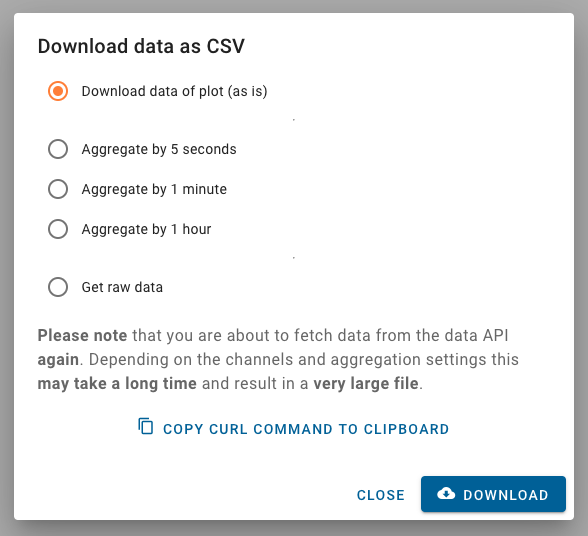
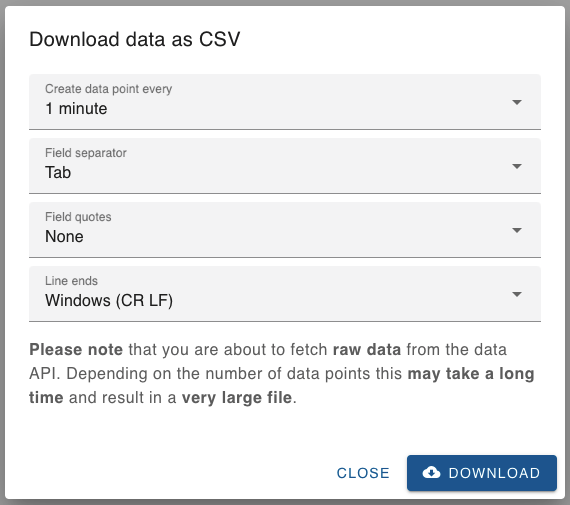
docs: document CSV download

diff --git a/docs/howtos/download_channel_data.md b/docs/howtos/download_channel_data.md
@@ -4,7 +4,7 @@ This document will guide you through the steps to download data from the data AP
 
 ## Scenario
 
-For the purpose of this guide, let's assume we want to download the raw data of the _last 4 hours_ of the following _channels_:
+For the purpose of this guide, let's assume we want to download the data of the _last 4 hours_ with a data point _every 5 seconds_ of the following _channels_:
 
 - SINEG01-CMON-DIA0091:CURRENT-3-3
 - SINEG01-CMON-DIA0091:CURRENT-5
@@ -34,7 +34,11 @@ If they are not currently displayed, click the _select plot range_ tool button !
 
 Now click on the _quick dial button_ ![quick dial button](../images/button_quick_dial.png) and from the list select "last 1h". Then enter the _Start_ text field and adjust the hours, so that the time difference between _Start_ and _End_ is 4 hours.
 
+Finally, turn the switch _Query expansion_ ![switch query expansion](../images/switch_query_expansion.png) on. This will make sure, our first time stamp does have a data point.
+
 If you want, you can preview the plot by clicking the _plot button_ ![plot button](../images/button_plot.png).
+
+**Please note:** Whether you plot the PVs or not is of no consequence to the CSV download.
 
 ### Step 3: Download data
 
@@ -42,30 +46,14 @@ Click the _download data_ tool button ![share link](../images/tool_button_downlo
 
 ![Download data as CSV dialog](../images/dialog_download_data_csv.png)
 
-Because our scenario said, we want to download the _raw_ data, choose _Get raw data_.
+Because our scenario said, we want to download the data with a data point _every 5 seconds_, open the selection _Create data point every_ and choose entry _5 seconds_.
 
-Click the _download_ button ![copy URL](../images/button_download.png) to download the raw data in CSV format.
-
-> **Side note**
->
-> In the dialog, you can choose different types of data aggregation. When aggregating the data, multiple data points are combined into a _bin_.
->
-> - **Download data of plot (as is)** will download the data using the exact same aggregation as _databuffer UI_ uses, when it draws the plot. I.e. it aggregates by limiting the number of bins. The duration of each bin will depend on the _Start_ and _End_ time of the plot.
-> - **Aggregate by 5 seconds** will aggregate data using a duration of 5 seconds per bin.
-> - **Aggregate by 1 minute** will aggregate data using a duration of 1 minute per bin.
-> - **Aggregate by 1 hour** will aggregate data using a duration of 1 hour per bin.
-> - **Get raw data** will disable data aggregation and download all available data.
+Click the _download_ button ![copy URL](../images/button_download.png) to download the data in CSV format.
 
 The download from data API will start in the background. Once it has finished it will appear in your browser's downloads. This may take a long time, because there may be a lot of data.
 
-## Bonus: download via `curl`
-
-Did you notice the button ![copy curl command to clipboard](../images/button_copy_curl_command.png)?
-
-`curl` is a command line program that allows you to issue HTTP requests (and downloads) from the command line (or shell or terminal). To get the CSV data from the data API web service, you'll need to send a specific request to it. Writing that by hand can be a bit tedious.
-
-By clicking that button, _databuffer UI_ will copy a `curl` command to your clipboard, that will issue the same query for CSV data, as _databuffer UI_ itself would do, when you click the download button. Now all you have to do is paste the command into a terminal and run it.
-
-You can use that command as a starting point for tweaking parameters, if you need a specific type of download, that is not provided through the UI itself.
-
-You'll find all the details on the available parameters in the documentation of [the query REST API of the data API service](https://git.psi.ch/sf_daq/ch.psi.daq.databuffer/blob/master/ch.psi.daq.queryrest/Readme.md).
+> **Side note**
+>
+> The UI will always **request raw data**, in order to create the CSV data you requested.
+>
+> It will then re-interpret the data and create completely new data points from it.
